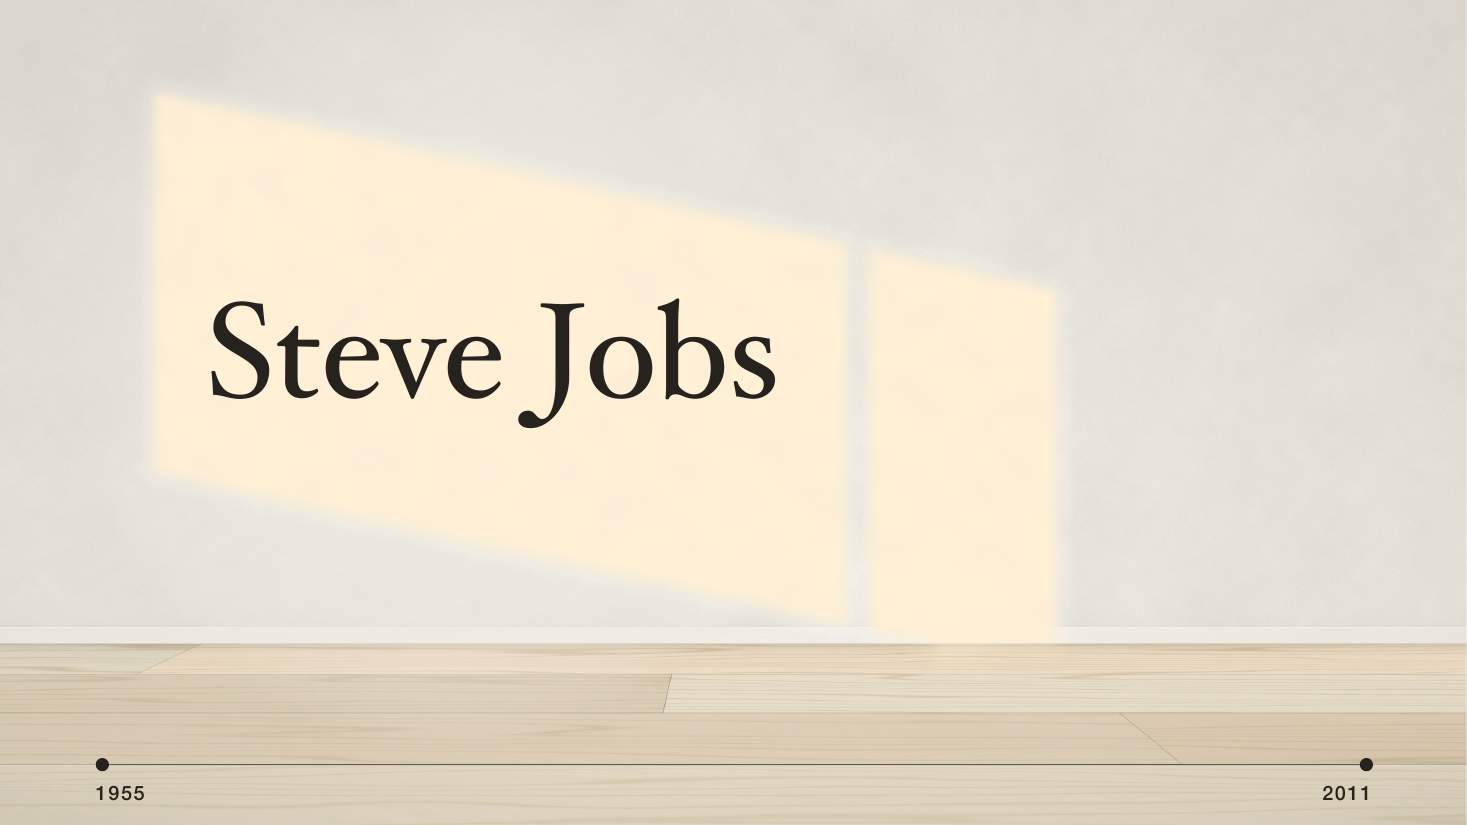
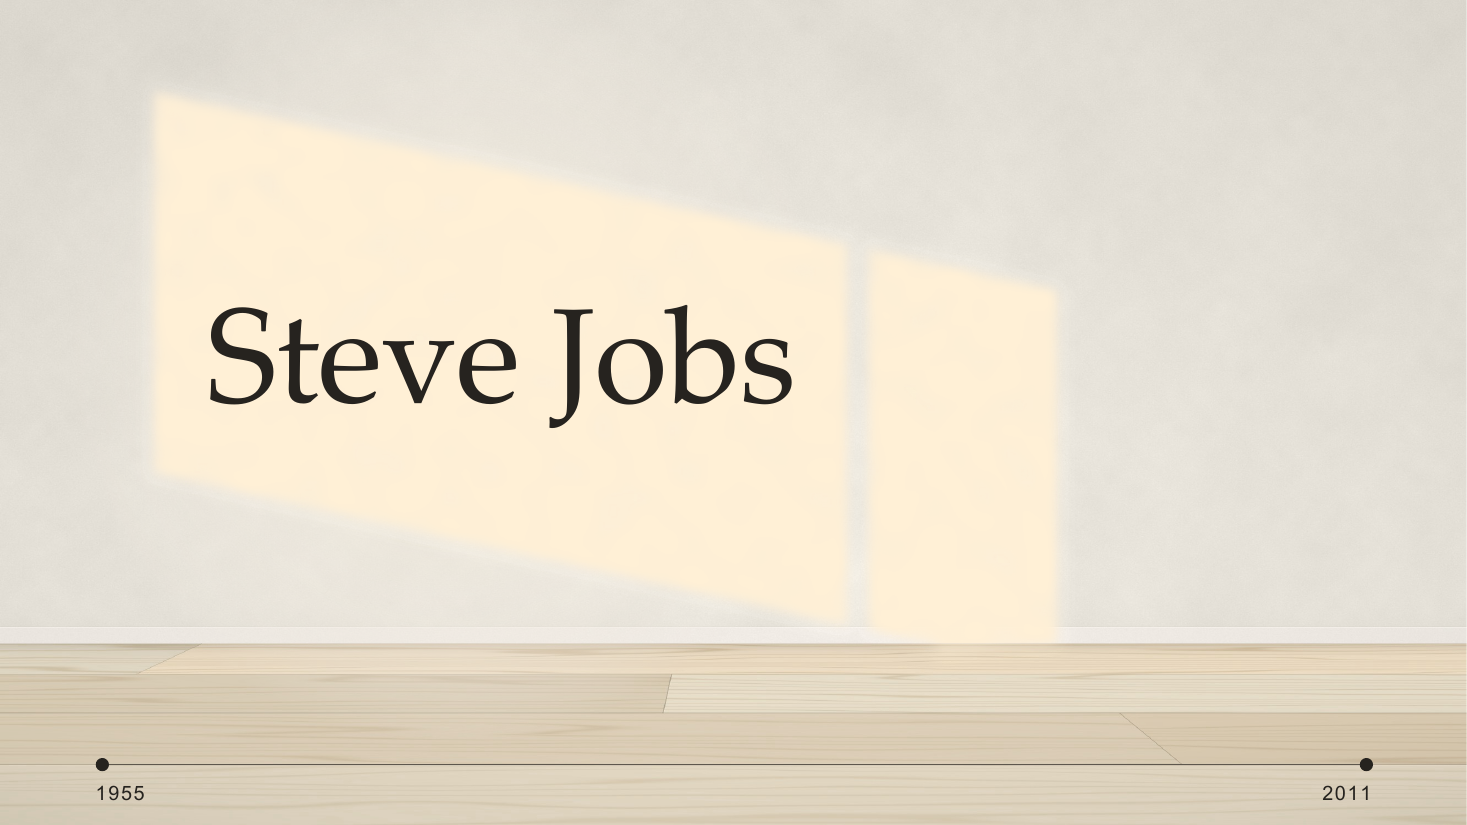
feat(examples): steve-jobs example in cross-platform fonts
SimSun and Palatino Linotype for the wall's voice, Microsoft YaHei and
Arial for facts, Consolas on the screens. Re-measures the minimum cells
(S10) and the Alto prompt (S09), regenerates the street-sign outlines
from Arial and Palatino, and lines the 30 up with its headline (S12).

Changed region(s): [[0.1227, 0.3636, 0.5521, 0.5152]]

diff --git a/examples/steve-jobs/slides/S10-macintosh.js b/examples/steve-jobs/slides/S10-macintosh.js
@@ -1,5 +1,5 @@
 // S10 — 主体 + 旁注 + 联系：房间里唯一的东西是一台 Macintosh，正午的太阳照着它和它身后的墙；
-// 屏幕上同一个词的两种排法（Monaco 等宽 / Hoefler Text 按比例），每个字母落在它占的格子里。
+// 屏幕上同一个词的两种排法（Consolas 等宽 / Palatino Linotype 按比例），每个字母落在它占的格子里。
 // 地板上的生命线：一条蓝线从 1972（书法课）连到 1984。视觉中心：屏幕上的两个 minimum。
 const { sun, place, lifeline, linksBefore, marks, leader, cells } = require('../parts');
 
@@ -13,7 +13,7 @@ module.exports = {
 （单击 2）他在斯坦福说：如果我当年没有旁听那门书法课，Mac 就不会有多种字体，也不会有按比例的字距；而 Windows 只是抄了 Mac，所以很可能所有的个人电脑都不会有。
 （单击 3）地板上，一条蓝线从 1972 年连到 1984 年。十年前那门“没用的”课，在这里第一次被连上了。
 口头补充：屏幕上的窗口和按钮是圆角的，也是他坚持的。他拉着工程师 Bill Atkinson 在街上走，指给他看：“圆角矩形到处都是！”
-来源：[1] 斯坦福演讲，2005；[3]；[14] folklore.org。屏幕里的两行字是示意：Monaco 是 1984 年 Mac 的等宽字体，下一行用 Hoefler Text。`,
+来源：[1] 斯坦福演讲，2005；[3]；[14] folklore.org。屏幕里的两行字是示意：上一行用等宽字体 Consolas，下一行用按比例的 Palatino Linotype。`,
   build(k) {
     k.light({ cx: 6.8, cy: 3.1, r: 3.4, strength: 0.55 });
     sun(k);
@@ -26,7 +26,7 @@ module.exports = {
     const m = place(k, 'mac');
 
     // the screen: the same word, monospaced and proportional. Each letter sits in the cell it is given:
-    // in Monaco every cell is as wide as an m, in Hoefler Text each letter takes only what it needs.
+    // in Consolas every cell is as wide as an m, in Palatino Linotype each letter takes only what it needs.
     const a = m.active, word = 'minimum';
     const mono = cells(word, 'mono', 26), prop = cells(word, 'roman', 26);
     const wx = a.x + (a.w - mono[mono.length - 1]) / 2;

diff --git a/examples/steve-jobs/parts.js b/examples/steve-jobs/parts.js
@@ -184,7 +184,7 @@ function lifeline(k, { current, links = [], fresh = [], freshBuild, delay = 0, s
     else if (i < ci) k.dot({ cx, cy: y, r: 0.035, fill: 'stone', name });
     else k.dot({ cx, cy: y, r: 0.035, fill: 'paperDeep', line: 'seam', lineW: 0.75, name });
   });
-  // year labels under the line: the year in Helvetica, what happened in the sans face (Hiragino Sans GB)
+  // year labels under the line: the year in Arial, what happened in the sans face (Microsoft YaHei)
   const tag = (id, what, color, whatColor = color, build) => {
     const runs = [{ text: id, style: 'year', color }];
     if (what) runs.push({ text: `　${what}`, style: 'label', tracking: 0, color: whatColor });
@@ -264,7 +264,7 @@ function leader(k, { from, to, color = 'seam', dot = 'stone', build }) {
 }
 
 // Dimension line (engineering drawing): a hairline with end ticks. Horizontal (x1 → x2 at y) or vertical (y1 → y2 at x).
-// style: 'year' (Helvetica, for figures and units: "1 ft") or 'label' (Hiragino Sans GB, for a Chinese label: "九年").
+// style: 'year' (Arial, for figures and units: "1 ft") or 'label' (Microsoft YaHei, for a Chinese label: "九年").
 function dim(k, { x1, x2, y, y1, y2, x, label, color = 'stone', side = 'below', build, style = 'year' }) {
   const ls = style === 'year' ? { style } : { style, tracking: 0 };
   const t = 0.06;
@@ -282,10 +282,10 @@ function dim(k, { x1, x2, y, y1, y2, x, label, color = 'stone', side = 'below', 
 }
 
 // Lay a word out in a given face so its cells can be measured: advance widths (em) for the letters we use.
-// Monaco is monospaced (every letter 0.600 em). Hoefler Text, from the font's hmtx; no kerning between these letters.
+// Consolas is monospaced (every letter 0.550 em). Palatino Linotype, from the font's hmtx; no kerning between these letters.
 const ADVANCE = {
-  mono: () => 0.6001,
-  roman: (ch) => ({ m: 0.827, i: 0.28, n: 0.548, u: 0.523 })[ch],
+  mono: () => 0.5498,
+  roman: (ch) => ({ m: 0.883, i: 0.291, n: 0.582, u: 0.603 })[ch],
 };
 function cells(word, face, sizePt) {
   let x = 0;

diff --git a/examples/steve-jobs/slides/S19-ipod.js b/examples/steve-jobs/slides/S19-ipod.js
@@ -13,7 +13,7 @@ module.exports = {
 （单击 1）请看它的正面：一块小屏幕，一个滚轮，没有别的。转动滚轮，列表就上下移动；按中间的键，就进入下一层。三下点击，就能找到任何一首歌。没有说明书，第一次拿到的人也会用。
 （单击 2）2003 年，他对《纽约时报杂志》说：大多数人以为设计就是外表。但设计不只是它看起来、摸起来怎样——设计，是它怎样工作。iPod 好看，但更重要的是：它好用到不需要说明书。
 口头补充：同一年（2003 年 4 月），iTunes 音乐商店上线，一首歌 99 美分。
-说明：屏幕里的菜单是示意（iPod 1.x 软件的主菜单）；真实的 iPod 屏幕用的是 Chicago 字体——1984 年 Mac 的系统字体，这里用 Helvetica Neue 代替。初代 iPod 的尺寸是 102 × 61.8 × 19.9 毫米，画面按这个比例画。
+说明：屏幕里的菜单是示意（iPod 1.x 软件的主菜单）；真实的 iPod 屏幕用的是 Chicago 字体——1984 年 Mac 的系统字体，这里用 Arial 代替。初代 iPod 的尺寸是 102 × 61.8 × 19.9 毫米，画面按这个比例画。
 → 下一页：这个口袋里的东西，会变成另一样东西。
 来源：[13] Rob Walker，“The Guts of a New Machine”，《纽约时报杂志》，2003-11-30；[25] iMac 发布，1998-05-06；[26] iPod 发布，2001-10-23，“1,000 songs in your pocket”；iTunes Store，2003-04。`,
   build(k) {

diff --git a/examples/steve-jobs/theme.js b/examples/steve-jobs/theme.js
@@ -21,18 +21,17 @@ module.exports = {
     // what is shown on a screen (Mac, iPhone): its paper, its ink, the hairlines that measure it
     screen: 'F6F5EF', screenInk: '1E1D1B', screenRule: 'A7A298',
   },
-  target: 'mac', // macOS fonts: shown from a Mac with PowerPoint (typography.md)
   fonts: {
-    serif: 'Songti SC',        // titles: the room's voice
-    sans: 'Hiragino Sans GB',       // facts, labels
-    latin: 'Helvetica Neue',
-    latinMedium: 'Helvetica Neue Medium',
-    roman: 'Hoefler Text',     // his name; his words in the original (Apple's own serif, 1991)
-    italic: 'Hoefler Text',
-    mono: 'Monaco',            // the 1984 Macintosh's monospaced face
-    symbol: 'Lucida Grande',   // arrows on the Alto screen: Helvetica Neue has none
+    serif: 'SimSun',              // titles: the room's voice
+    sans: 'Microsoft YaHei',      // facts, labels
+    latin: 'Arial',
+    latinMedium: 'Arial',
+    roman: 'Palatino Linotype',   // his name; his words in the original (Hermann Zapf, a calligrapher, drew Palatino)
+    italic: 'Palatino Linotype',
+    mono: 'Consolas',
+    symbol: 'Segoe UI Symbol',    // arrows on the Alto screen
   },
-  fontPairs: { 'Hiragino Sans GB': 'Helvetica Neue', 'Songti SC': 'Hoefler Text' },
+  fontPairs: { 'Microsoft YaHei': 'Arial', SimSun: 'Palatino Linotype' },
   backgroundImages: { paper: 'assets/room.jpg' },
   grid: { margin: { x: 0.9, top: 0.7, bottom: 0.55 }, cols: 12, gutter: 0.22 },
   type: {

diff --git a/examples/steve-jobs/slides/S09-parc.js b/examples/steve-jobs/slides/S09-parc.js
@@ -24,7 +24,7 @@ module.exports = {
     // ── left, out of the sun: the command line ──
     const m = place(k, 'cli');
     const r = m.raster, cw = r.w / 40, lh = r.h / 24;
-    const pt = cw / 0.6 * 72;
+    const pt = cw / 0.5498 * 72;
     k.text(']CATALOG', { style: 'screenMono', size: +pt.toFixed(2), color: 'screen', x: r.x, y: r.y + lh * 1 - 0.01, w: cw * 12, nowrap: true, overlap: true });
     k.rect({ x: r.x + cw * 8, y: r.y + lh * 1 + lh * 0.12, w: cw * 0.95, h: lh * 0.8, fill: 'screen' });
 
@@ -50,7 +50,7 @@ function gui(k, R, build) {
   const u = R.w / 300;
   const X = (x) => R.x + x * u, Y = (y) => R.y + y * u;
   const ink = 'screenInk', paper = 'screen';
-  const font = 'Helvetica Neue';
+  const font = 'latin';
   const fs = 7.2 * u * 72 * 0.98;             // a 7-unit line of text, in points
   const T = (s, x, y, { w = 80, ...o } = {}) => k.text(s, { style: 'caption', font, size: +fs.toFixed(2), leading: 1.0, color: ink, x: X(x), y: Y(y) - fs / 72 * 0.12, w: w * u, nowrap: true, overlap: true, build, ...o });
   // white on black (title tabs, the selected line): the text box is the black box itself, so its centre sits on it

diff --git a/examples/steve-jobs/slides/S12-thirty.js b/examples/steve-jobs/slides/S12-thirty.js
@@ -19,9 +19,8 @@ module.exports = {
     marks(k, { part: '二　车库', date: '1985' });
     lifeline(k, { current: '1985', until: '1985', links: linksBefore('S12') });
 
-    // Hoefler Text's figures are old-style: the 3 drops below the line, the 0 stands at x-height. The headline's
-    // second line shares the number's baseline (≈ 3.5 in).
-    const n = k.text('30', { style: 'number', x: k.M.x - 0.06, y: 0.7, w: 2.95, nowrap: true, name: 'number' });
+    // The headline's second line shares the number's baseline (≈ 3.4 in).
+    const n = k.text('30', { style: 'number', x: k.M.x - 0.06, y: 0.8, w: 2.95, nowrap: true, name: 'number' });
     k.text('岁，被自己创办的\n公司赶了出去。', { style: 'headline', size: 36, x: k.M.x + 3.05, y: 2.09, w: 4.6 });
     const q = k.text('我成年后整个生活的重心，不见了。', { style: 'voice', size: 20, x: k.M.x + 3.05, y: 3.9, w: 5.2, nowrap: true, build: 1 });
     k.text('斯坦福大学毕业典礼，2005', { style: 'caption', x: q.x, y: q.y + q.estH + 0.1, w: 3, nowrap: true, build: 1 });

diff --git a/examples/steve-jobs/objects/street-signs.js b/examples/steve-jobs/objects/street-signs.js
@@ -4,7 +4,7 @@
 // (a street post is ~3 m; here the blades are what matters, so the post below them is 0.75 m).
 // Drawn in the room's true perspective (parts.project), turned so that both blades are seen: "turn" is the angle of the
 // Technology blade from the wall. The lettering is the fonts' own outlines (street-signs.glyphs.json, extracted with
-// fontTools from Helvetica Neue Medium and Hoefler Text, with their kerning) projected onto each blade, so it
+// fontTools from Arial and Palatino Linotype, with their kerning) projected onto each blade, so it
 // foreshortens as a real sign does. That makes the two words shapes, not editable text — like the sign itself.
 // room.py only knows boxes standing on the floor: it casts the post's shadow (real = the post). The blades and clamps
 // throw their own shadows here, from the page's sun (at.sun: direction and window), clipped to the patch of light.

diff --git a/examples/steve-jobs/slides/S22-crossroads.js b/examples/steve-jobs/slides/S22-crossroads.js
@@ -1,5 +1,5 @@
-// S22 — 交叉：黄昏，很低、很长的橙色光。房间里站着一根立杆，杆顶两块成直角交叉的街牌：Technology（Helvetica Neue）
-// 与 Liberal Arts（Hoefler Text）——这套演示的两种声音，在同一个地方交叉。光落在两块牌上，它们的影子投在右边的墙上。
+// S22 — 交叉：黄昏，很低、很长的橙色光。房间里站着一根立杆，杆顶两块成直角交叉的街牌：Technology（Arial）
+// 与 Liberal Arts（Palatino Linotype）——这套演示的两种声音，在同一个地方交叉。光落在两块牌上，它们的影子投在右边的墙上。
 // 左边墙上：一句话、他的话，最后一行是他复杂的一面。视觉中心：光里的两块牌交叉的地方。Morph → S23（拉远成全景）。
 const { sun, place, lifeline, linksBefore, marks } = require('../parts');
 

diff --git a/examples/steve-jobs/slides/S08-simplicity.js b/examples/steve-jobs/slides/S08-simplicity.js
@@ -25,7 +25,7 @@ module.exports = {
     const a = place(k, 'apple2');
     k.light({ cx: a.cx, cy: 3.2, r: 4.2, strength: 0.4 });
 
-    // the one English title of the deck, written across the wall in Hoefler Text; the Chinese and the source under it
+    // the one English title of the deck, written across the wall in Palatino Linotype; the Chinese and the source under it
     const t = k.text('Simplicity is the ultimate sophistication.', { style: 'display', size: 44, tracking: 0, x: k.M.x, y: 1.02, w: k.innerW, align: 'center', nowrap: true, build: 1 });
     const zh = k.text('简单，是最终的复杂。', { style: 'lead', color: 'ink', x: k.M.x, y: t.y + 0.98, w: k.innerW, align: 'center', nowrap: true, build: 1 });
     k.text('Apple II 宣传册，1977', { style: 'caption', x: k.M.x, y: zh.y + 0.5, w: k.innerW, align: 'center', nowrap: true, build: 1 });

diff --git a/examples/steve-jobs/slides/S14-pixar.js b/examples/steve-jobs/slides/S14-pixar.js
@@ -1,5 +1,5 @@
 // S14 — 交叉（两条线）：墙上一张草图。横轴是时间，从 1986（买下 Pixar）到 1995.11（《玩具总动员》）：
-// 一条“Art”从上方弯下来（Hoefler Text Italic），一条“Technology”从下方升上去（Helvetica Neue），九年里慢慢靠近，
+// 一条“Art”从上方弯下来（Palatino Linotype Italic），一条“Technology”从下方升上去（Arial），九年里慢慢靠近，
 // 在 1995 相遇，此后并排走下去——相遇点就是第一部全电脑动画长片。下面的刻度与尺寸线标出九年亏损。午后偏淡的一小块光落在交点上。
 // NeXT 的立方体缩小到右边的角落（obj-cube，在阴影里），等 S16。视觉中心：阳光里的交点。
 const { sun, place, lifeline, linksBefore, marks, stroke } = require('../parts');

diff --git a/examples/steve-jobs/objects/ipod.js b/examples/steve-jobs/objects/ipod.js
@@ -4,7 +4,7 @@
 // wheel, ringed by its four buttons (MENU on top, previous and next at the sides, play/pause below) and with the select
 // button in its centre. No logo (the first iPod's front carries none).
 // The screen shows the main menu of iPod software 1.x as an illustration (示意): the real one was set in Chicago, the
-// 1984 Mac's system face, which no current Mac has; Helvetica Neue stands in.
+// 1984 Mac's system face, which no current Mac has; Arial stands in.
 // Morph: the body parts carry the same names as objects/iphone.js — 'obj-pocket' (body), -side, -bezel, -glass (the
 // white front → the black glass), -screen, -button (select button → Home button), -glare — so the iPod becomes the
 // iPhone (S19 → S20). The wheel, its buttons and the screen's menu have their own names and fade out.
